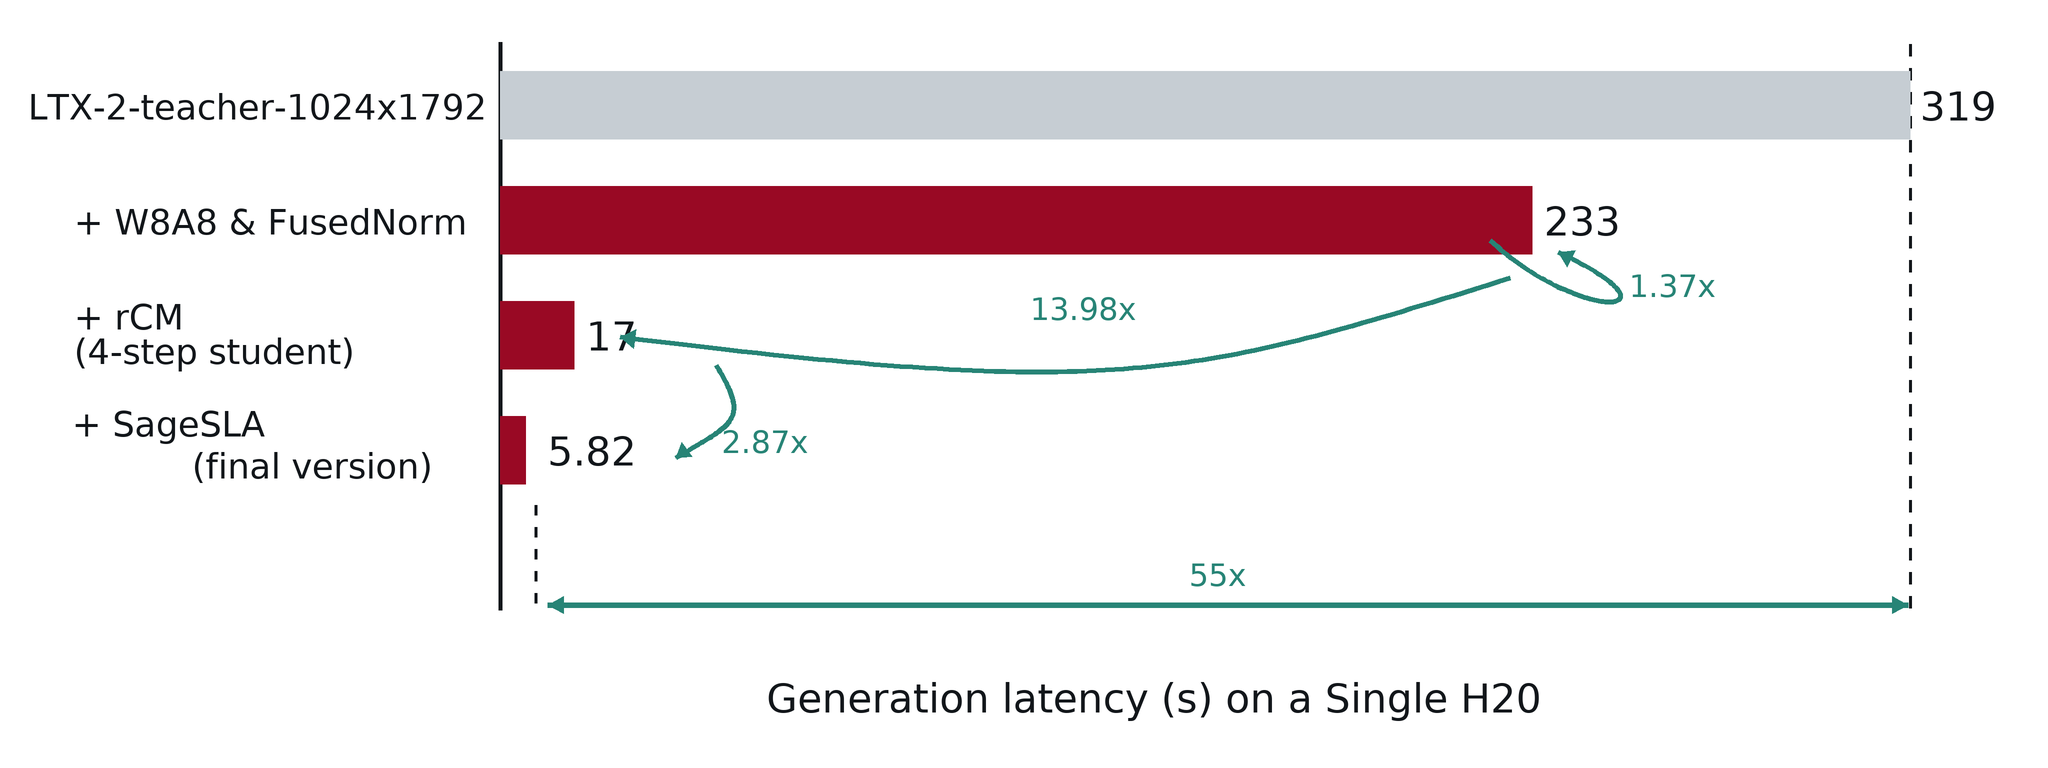
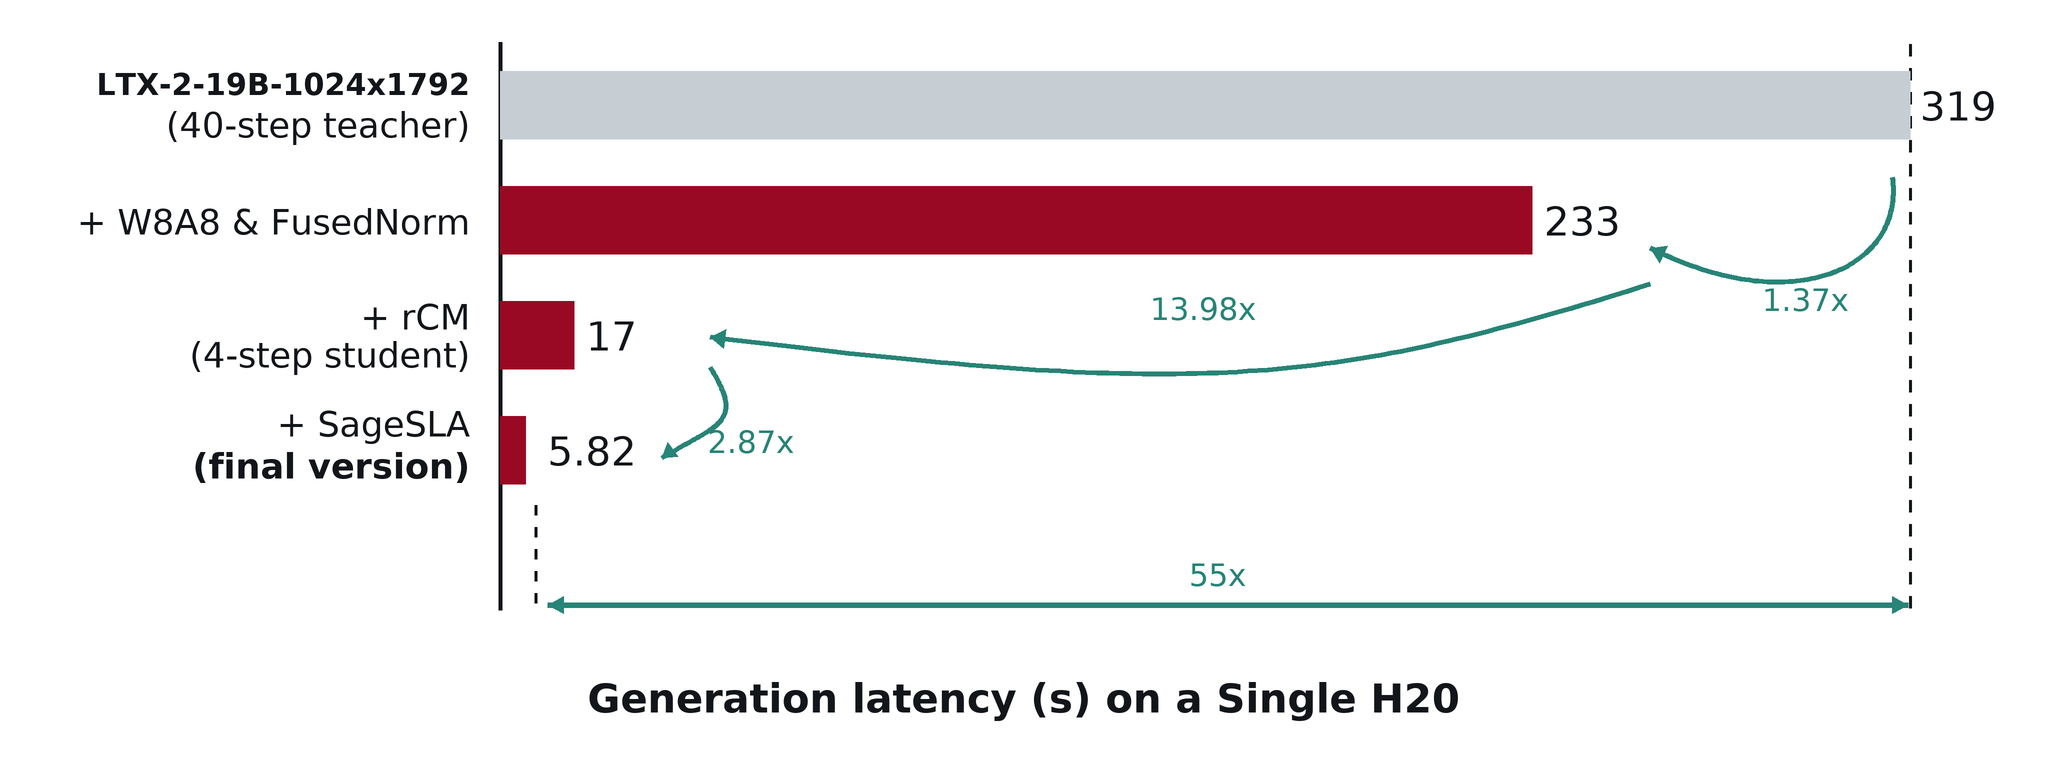
Refine TD-style acceleration figure layout

diff --git a/scripts/plot_td_style_acceleration.py b/scripts/plot_td_style_acceleration.py
@@ -21,9 +21,10 @@ FONT_CANDIDATES = [
 
 def font(size: int, bold: bool = False) -> ImageFont.FreeTypeFont | ImageFont.ImageFont:
     names = ["DejaVuSans-Bold.ttf", "DejaVuSans.ttf"] if bold else ["DejaVuSans.ttf", "DejaVuSans-Bold.ttf"]
-    for candidate in FONT_CANDIDATES:
-        if candidate.name in names and candidate.exists():
-            return ImageFont.truetype(str(candidate), size=size)
+    for name in names:
+        for candidate in FONT_CANDIDATES:
+            if candidate.name == name and candidate.exists():
+                return ImageFont.truetype(str(candidate), size=size)
     for candidate in FONT_CANDIDATES:
         if candidate.exists():
             return ImageFont.truetype(str(candidate), size=size)
@@ -141,13 +142,12 @@ def draw_latency_figure(
     red = (153, 9, 36)
     teal = (39, 132, 118)
 
-    title_font = font(s(35), bold=True)
+    title_font = font(s(30), bold=True)
     label_font = font(s(35))
     label_bold_font = font(s(35), bold=True)
     value_font = font(s(40))
     ratio_font = font(s(31))
     axis_font = font(s(40), bold=True)
-    small_font = font(s(24))
 
     x0 = 500
     max_width = 1410
@@ -168,15 +168,24 @@ def draw_latency_figure(
     for y in range(505, 610, 22):
         draw.line((s(final_x), s(y), s(final_x), s(y + 10)), fill=black, width=s(3))
 
+    label_right = 470
     for idx, (label, value, y) in enumerate(zip(labels, latencies, y_centers)):
         color = gray if idx == 0 else red
-        label_font_used = title_font if idx == 0 else label_font
         if "(final version)" in label:
             lines = label.split("\n")
-            draw_text(draw, p(72, y - 46), lines[0], label_font, black)
-            draw_text(draw, p(192, y - 4), lines[1], label_bold_font, black)
+            draw_text(draw, p(label_right, y - 46), lines[0], label_font, black, anchor="ra")
+            draw_text(draw, p(label_right, y - 4), lines[1], label_bold_font, black, anchor="ra")
+        elif idx == 0 and "\n" in label:
+            lines = label.split("\n")
+            draw_text(draw, p(label_right, y - 38), lines[0], title_font, black, anchor="ra")
+            draw_text(draw, p(label_right, y), lines[1], label_font, black, anchor="ra")
+        elif "\n" in label:
+            lines = label.split("\n")
+            draw_text(draw, p(label_right, y - 38), lines[0], label_font, black, anchor="ra")
+            draw_text(draw, p(label_right, y), lines[1], label_font, black, anchor="ra")
         else:
-            draw_text(draw, p(28 if idx == 0 else 74, y - 18 if "\n" not in label else y - 38), label, label_font_used, black)
+            label_font_used = title_font if idx == 0 else label_font
+            draw_text(draw, p(label_right, y - 18), label, label_font_used, black, anchor="ra")
         x_end = x_for(value)
         draw.rectangle((s(x0), s(y - bar_h / 2), s(x_end), s(y + bar_h / 2)), fill=color)
 
@@ -188,14 +197,14 @@ def draw_latency_figure(
         draw_text(draw, p(tx, y - 22), value_text, value_font, black)
 
     # TD-style curved stage arrows, placed in whitespace so labels remain clear.
-    top_start = (x_for(latencies[0]) - 420, y_centers[1] + 20)
-    top_end = (x_for(latencies[1]) + 26, y_centers[1] + 32)
-    top_curve = bezier(top_start, (top_start[0] + 90, top_start[1] + 84), (top_end[0] + 135, top_end[1] + 64), top_end)
+    top_start = (x_for(latencies[0]) - 18, y_centers[0] + 72)
+    top_end = (x_for(latencies[1]) + 118, y_centers[1] + 28)
+    top_curve = bezier(top_start, (top_start[0] + 12, top_start[1] + 92), (top_end[0] + 142, top_end[1] + 72), top_end)
     draw_curve_arrow(draw, [p(x, y) for x, y in top_curve], teal, width=s(5), head=s(18))
-    draw_text(draw, p((top_start[0] + top_end[0]) / 2 + 105, y_centers[1] + 48), speedups[0], ratio_font, teal)
+    draw_text(draw, p(top_end[0] + 112, top_end[1] + 34), speedups[0], ratio_font, teal)
 
-    middle_start = (x_for(latencies[1]) - 22, y_centers[1] + 58)
-    middle_end = (x_for(latencies[2]) + 46, y_centers[2] + 2)
+    middle_start = (x_for(latencies[1]) + 118, y_centers[1] + 64)
+    middle_end = (x_for(latencies[2]) + 136, y_centers[2] + 2)
     middle_curve = bezier(
         middle_start,
         (middle_start[0] - 320, middle_start[1] + 100),
@@ -203,10 +212,10 @@ def draw_latency_figure(
         middle_end,
     )
     draw_curve_arrow(draw, [p(x, y) for x, y in middle_curve], teal, width=s(5), head=s(18))
-    draw_text(draw, p((middle_start[0] + middle_end[0]) / 2 - 35, y_centers[2] - 44), speedups[1], ratio_font, teal)
+    draw_text(draw, p((middle_start[0] + middle_end[0]) / 2 - 30, y_centers[2] - 44), speedups[1], ratio_font, teal)
 
-    small_start = (x_for(latencies[2]) + 142, y_centers[2] + 30)
-    small_end = (x_for(latencies[3]) + 150, y_centers[3] + 8)
+    small_start = (x_for(latencies[2]) + 136, y_centers[2] + 32)
+    small_end = (x_for(latencies[3]) + 136, y_centers[3] + 8)
     small_curve = bezier(small_start, (small_start[0] + 36, small_start[1] + 58), (small_end[0] + 54, small_end[1] - 34), small_end)
     draw_curve_arrow(draw, [p(x, y) for x, y in small_curve], teal, width=s(5), head=s(17))
     draw_text(draw, p(small_end[0] + 46, y_centers[3] - 26), speedups[2], ratio_font, teal)
@@ -218,7 +227,7 @@ def draw_latency_figure(
 
     axis_label = "Generation latency (s) on a Single H20"
     tw, _ = text_size(draw, axis_label, axis_font)
-    draw_text(draw, p((width - tw / scale) / 2 + 130, 675), axis_label, axis_font, black)
+    draw_text(draw, p(width / 2, 675), axis_label, axis_font, black, anchor="ma")
 
     img = img.resize((width, height), Image.Resampling.LANCZOS)
     output.parent.mkdir(parents=True, exist_ok=True)
@@ -227,7 +236,7 @@ def draw_latency_figure(
 
 def main() -> None:
     labels = [
-        "LTX-2-teacher-512x768",
+        "LTX-2-19B-512x768\n(40-step teacher)",
         "+ W8A8 & FusedNorm",
         "+ rCM\n(4-step student)",
         "+ SageSLA\n(final version)",
@@ -241,7 +250,7 @@ def main() -> None:
         output=ASSET_DIR / "turbot2av_td_style_no_cpuoffload_512x768.png",
     )
     labels_high_res = [
-        "LTX-2-teacher-1024x1792",
+        "LTX-2-19B-1024x1792\n(40-step teacher)",
         "+ W8A8 & FusedNorm",
         "+ rCM\n(4-step student)",
         "+ SageSLA\n(final version)",

diff --git a/README.md b/README.md
@@ -320,11 +320,11 @@ The measured stages are:
 
 | Resolution | Stage | Latency | Speedup vs previous | Speedup vs teacher | What changes |
 | --- | --- | ---: | ---: | ---: | --- |
-| `512x768` | LTX-2-teacher-512x768 | 46.48s | - | 1.00x | Full teacher baseline. |
+| `512x768` | LTX-2-19B-512x768<br>(40-step teacher) | 46.48s | - | 1.00x | Full teacher baseline. |
 | `512x768` | + W8A8 & FastNorm | 27.32s | 1.70x | 1.70x | TileLang W8A8 Linear and FastNorm with default dense attention. |
 | `512x768` | + 4-step student | 2.47s | 11.07x | 18.83x | Distilled TurboT2AV student, still using default dense attention. |
 | `512x768` | + SageSLA final | 1.19s | 2.07x | 39.04x | Student plus SageSLA `topk=0.3`, W8A8/FastNorm, text trimming, and helper fusions. |
-| `1024x1792` | LTX-2-teacher-1024x1792 | 318.74s | - | 1.00x | High-resolution stress-test baseline. |
+| `1024x1792` | LTX-2-19B-1024x1792<br>(40-step teacher) | 318.74s | - | 1.00x | High-resolution stress-test baseline. |
 | `1024x1792` | + W8A8 & FastNorm | 233.34s | 1.37x | 1.37x | TileLang W8A8 Linear and FastNorm with default dense attention. |
 | `1024x1792` | + 4-step student | 16.70s | 13.98x | 19.09x | Distilled TurboT2AV student, still using default dense attention. |
 | `1024x1792` | + SageSLA final | 5.82s | 2.87x | 54.79x | Student plus SageSLA `topk=0.3`, W8A8/FastNorm, text trimming, and helper fusions. |